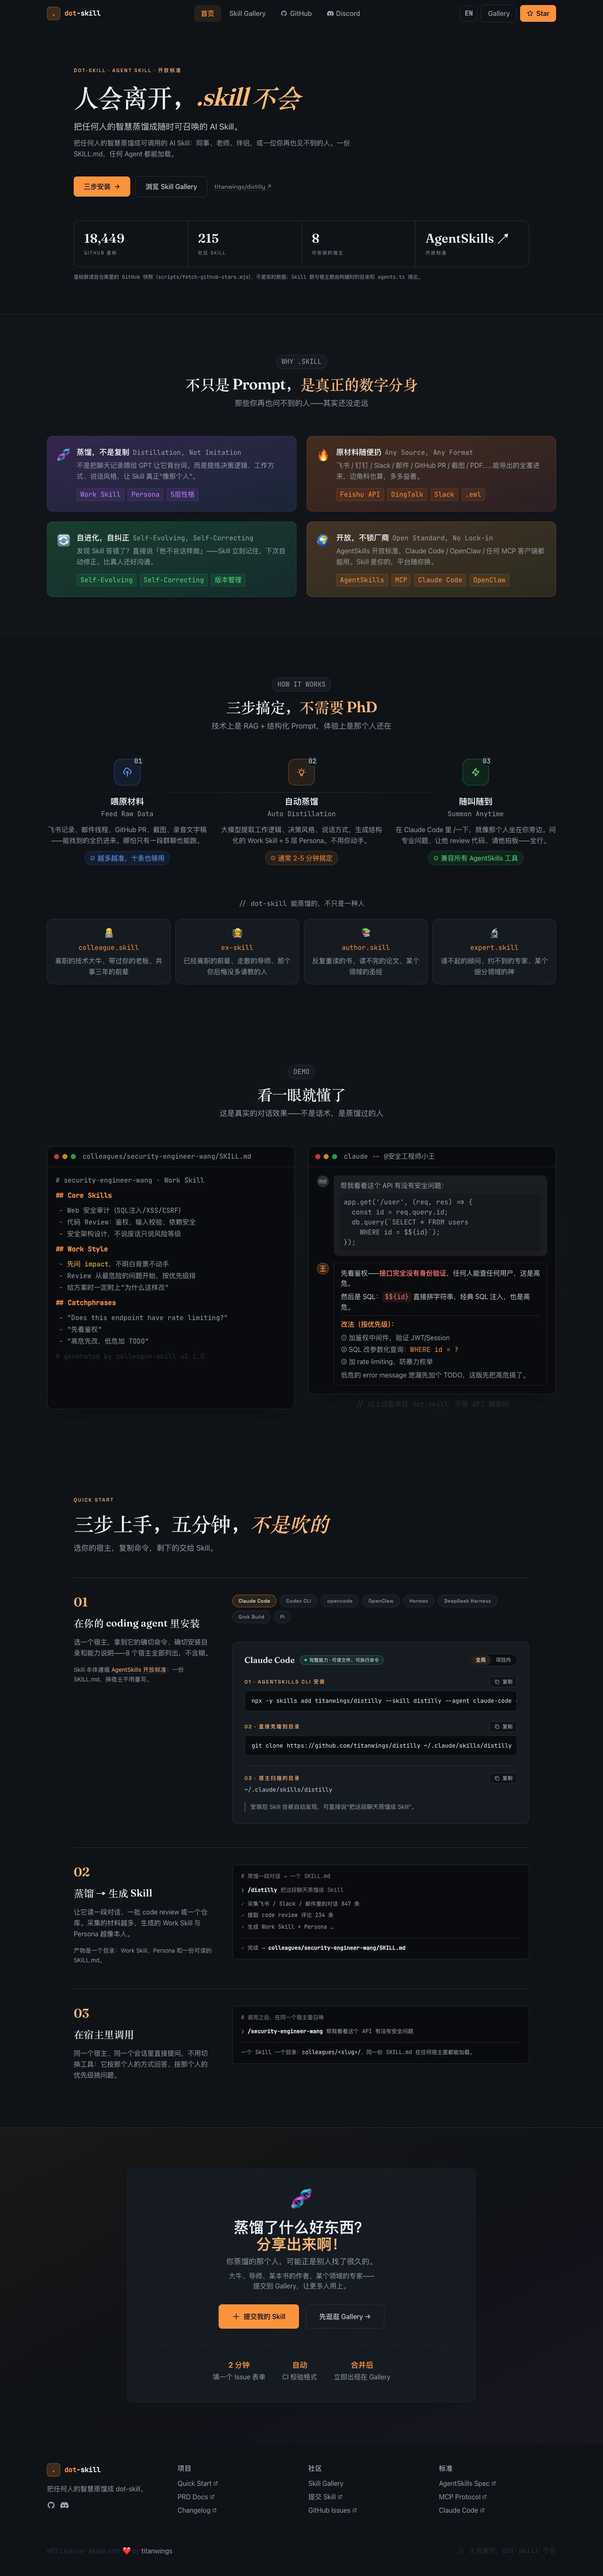
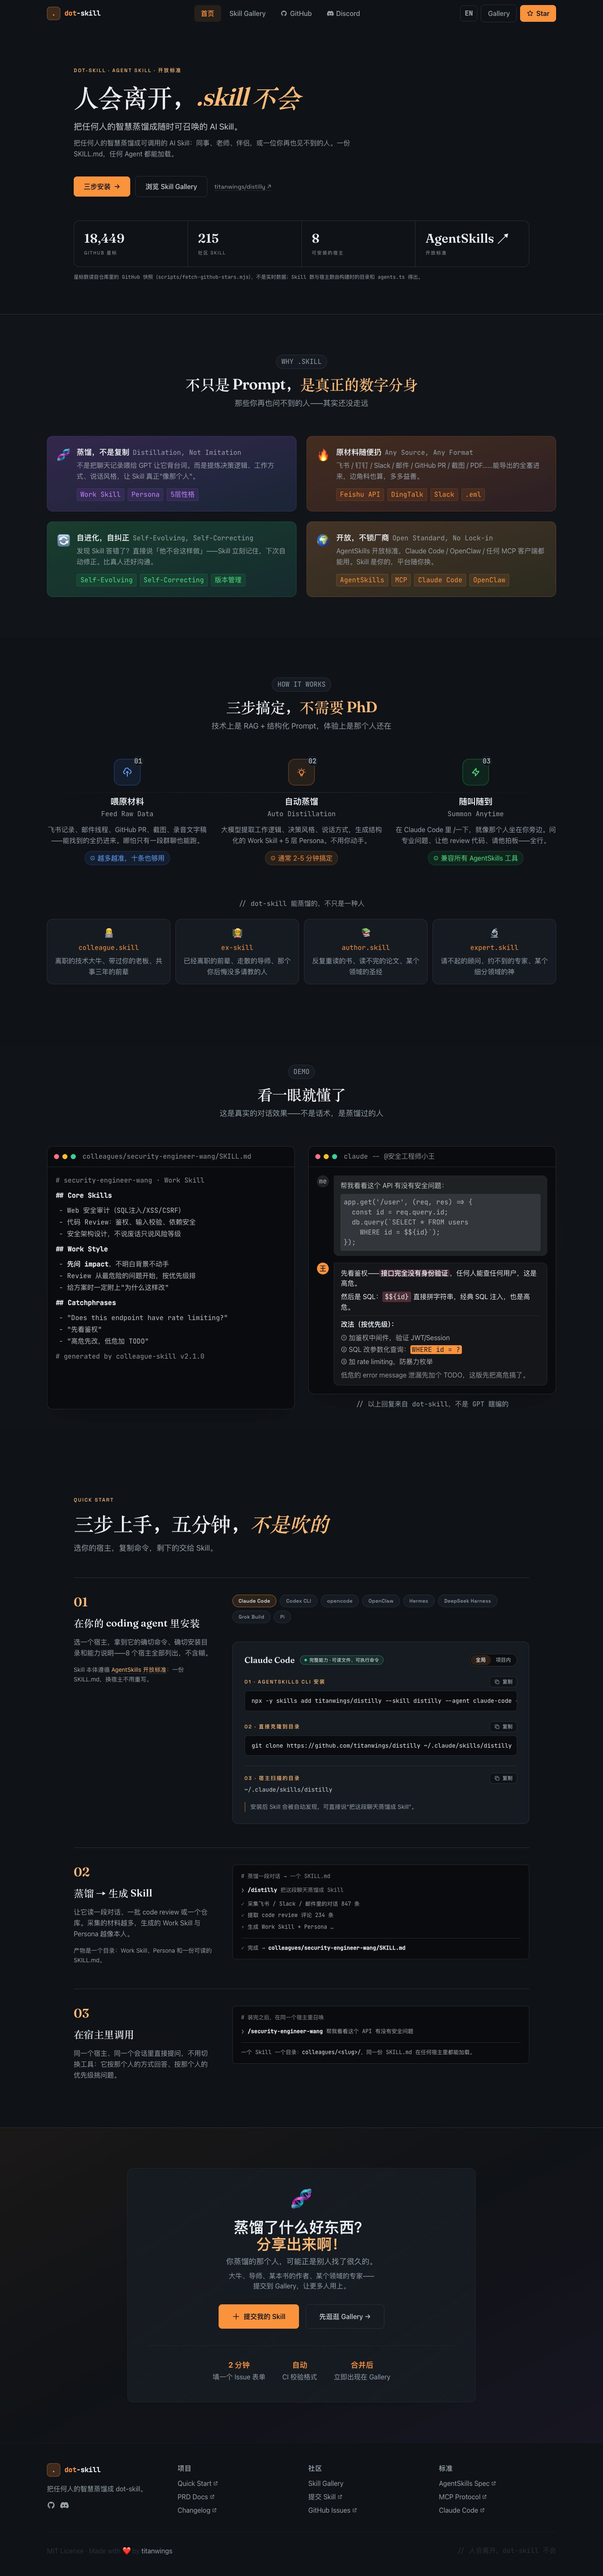
fix(site): move the demo plate text onto plate-ink tokens
The base re-skin darkened the light accent and remapped the legacy
surface-300…500 aliases to ink tones, which left the two DemoPreview terminal
windows below WCAG AA on the dark plate (text-brand-* ≈3.68:1,
text-surface-* ≈3.3:1 — the pattern PR-04 measured). DemoPreview is the last
plate block this PR owns, so it is swept here with token-only changes and no
layout or copy edits:

- body/secondary/comment text → text-plate-ink with /80, /70 and /60
  (≈10:1, ≈8:1 and ≈6:1 on --plate);
- markdown headers and emphasis lose their accent/raw-palette text colour and
  use font-semibold text-plate-ink; the accent now appears only as a fill
  (bg-accent + text-accent-ink) for the "WHERE id = ?" token and the persona
  avatar;
- severity callouts become a rose wash (bg-rose/20) with plate-ink text;
- inner surfaces and borders move to bg-plate-ink/10 and border-plate-line,
  and the terminal traffic dots to bg-rose/bg-warn/bg-ok;
- the section eyebrow and the caption under the terminals sit on paper, so
  they use text-ink-muted rather than a plate token.

Verified with axe-core per home-page section (plate blocks included): light 0
and dark 0 violations in every section, including the demo; the only page-wide
violations are two footer nodes and one navbar active link in files this PR
does not own (attribution in the evidence doc). Re-ran the full evidence pass:
217-page build, 12/12 captures on :4411 with 0 console errors and 0 overflow
[…]

Changed region(s): [[0.5625, 0.4374, 0.9062, 0.5312], [0.0938, 0.4687, 0.1875, 0.5312]]

diff --git a/docs/evidence/pr-02-hero-quickstart.md b/docs/evidence/pr-02-hero-quickstart.md
@@ -18,6 +18,7 @@ command, the exact directory and an honest capability note for all eight hosts.
 | `website/src/components/AgentSwitcher.astro` | **New (506 lines).** Tablist of all eight coding agents + panel with the install routes, the documented directory and the host's own caveat. Every string comes from `src/data/agents.ts`; nothing is typed twice. |
 | `website/src/components/Hero.astro` | Rewritten (153 lines). Kicker → Fraunces headline (one line per language) → two sentences → shared `.btn-primary` / `.btn-secondary` CTAs → hairline fact bar. Removed: grid/gradient backgrounds, glow blobs, `gradient-text`, terminal window, bouncing chevron, the hard-coded `10,000+` star claim, and the JS-reveal dependency. |
 | `website/src/components/QuickStart.astro` | Rewritten (186 lines). Three numbered steps (`01/02/03`); step 01 embeds the switcher, steps 02/03 keep the previous copy (distill → SKILL.md → summon) in plate panels. Removed the two hard-coded clone commands (they still pointed at `titanwings/colleague-skill`) and the per-card copy script. |
+| `website/src/components/DemoPreview.astro` | Token sweep only (144 lines, no layout/copy change): the two terminal windows were the last dark-plate blocks still using `text-brand-*` / `text-surface-*` / raw palette classes, which fall below AA on the plate after the base re-skin. Pulled into this PR by the plate-contrast audit below; the hero does not render this component. |
 | `docs/evidence/pr-02-hero-quickstart.md`, `docs/evidence/images/pr-02-hero-quickstart-*.jpg`, `docs/evidence/captures/pr-02-hero-quickstart.json` | Evidence for this PR. |
 
 ### The switcher (data wiring)
@@ -65,18 +66,87 @@ merged in with `git merge --no-edit site/01-design-system` (merge commit
 | `59f66e1` made `capture.mjs` refuse a foreign preview and parse the URL it actually bound | the manual `lsof`/receipt-height workaround described in the first revision of this document. |
 
 The language fix also changes the *measured* page heights: before the merge the
-page rendered both languages at once, which inflated every section.
+page rendered both languages at once, which inflated every section. The two
+columns below are this PR's own receipts (`captures/pr-02-hero-quickstart.json`),
+pre-merge and post-merge — the live-site baseline of 5997 px is **not** a target
+here, because it predates the whole refactor (different fonts, tokens and
+sections).
 
-| Page | Live baseline (`before-*`) | PR-02 before the sync | PR-02 after the sync |
-| --- | --- | --- | --- |
-| `/` | 5997 px | 7182 px | **6145 px** |
-| `/gallery/` | 2463 px | 2613 px | **2463 px** |
-| `/gallery/boss-skill/` | 1389 px | 1623 px | **1389 px** |
+| Page | Pre-merge receipt (PR-02 code, old base styles) | Post-merge receipt (PR-02 code, fixed base styles) | Δ | Attribution |
+| --- | --- | --- | --- | --- |
+| `/` | 7182 px | **6145 px** | −1037 px | base style fix (below) |
+| `/gallery/` | 2613 px | **2463 px** | −150 px | base style fix |
+| `/gallery/boss-skill/` | 1623 px | **1389 px** | −234 px | base style fix |
 
-Gallery and detail are back to the live baseline exactly. The home page is
-**+148 px** versus the live baseline by design: PR-02 replaces the old hero
-(terminal window, social-proof row) and the three install cards with the fact bar
-and three stacked steps, one of which embeds an eight-host switcher.
+Attribution was measured, not guessed: rebuilding the **pre-merge PR-02 code**
+with only the base branch's `global.css` + `tailwind.config.mjs` overlaid gives
+**6145 / 2463 / 1389 px** — identical to this branch's post-merge receipt. So
+100 % of the delta comes from the restored language rules (and the token
+re-skin), and none of it from PR-02's own component changes.
+
+```bash
+git archive 9653826 | tar -x -C /tmp/pr02-expB                       # pre-merge PR-02 code
+git show site/01-design-system:website/src/styles/global.css > /tmp/pr02-expB/website/src/styles/global.css
+git show site/01-design-system:website/tailwind.config.mjs  > /tmp/pr02-expB/website/tailwind.config.mjs
+ln -s "$PWD/website/node_modules" /tmp/pr02-expB/website/node_modules
+cd /tmp/pr02-expB/website && npm run build && npx astro preview --port 4415 --host 127.0.0.1
+# → home 6145px, gallery 2463px, detail 1389px
+```
+
+For completeness: the home page is +148 px versus the pre-refactor live site
+(5997 px). That number mixes the base re-skin with PR-02's new sections and is
+therefore not split further; PR-02 replaces the old hero (terminal window,
+social-proof row) and the three install cards with the fact bar and three
+stacked steps, one of which embeds an eight-host switcher.
+
+## Plate contrast audit
+
+PR-04 measured that, after the light accent was darkened and the legacy
+`surface-300…500` aliases were remapped to ink tones, old token usage on the
+dark plate (`#0f1216`) falls below AA: `text-brand-*` ≈3.68:1 and
+`text-surface-*` ≈3.3:1. Every dark-plate block owned by PR-02 was therefore
+swept:
+
+| File | Plate blocks | State |
+| --- | --- | --- |
+| `Hero.astro` | none (the old hero terminal is gone; all its text is on paper) | clean — the only `text-ink-muted` uses sit on `paper` |
+| `QuickStart.astro` | 2 transcript panels (`.code-block`) | already `text-plate-ink` + `/50`–`/70`; no change needed |
+| `AgentSwitcher.astro` | 2 command `<pre>` blocks per scope | already `text-plate-ink`; no change needed |
+| `DemoPreview.astro` | 2 terminal windows + a `<pre>` (pulled into this PR by this audit) | **fixed — 27 lines carried legacy/raw classes, 0 left** |
+
+The `DemoPreview.astro` sweep, all token-only and with no layout or copy change:
+
+| Before (on plate) | After |
+| --- | --- |
+| `text-surface-300` (code body) | `text-plate-ink/80` (≈10:1) |
+| `text-surface-400` (secondary code, fix list, avatars) | `text-plate-ink/70` (≈8:1) |
+| `text-surface-500` / `text-surface-600` (comments, filename) | `text-plate-ink/60` (≈6:1) |
+| `text-surface-200` (assistant message) | `text-plate-ink` (≈14:1) |
+| `text-brand-400` (markdown headers, "Fixes") | `font-semibold text-plate-ink` — no accent as text on plate |
+| `text-brand-300` (`WHERE id = ?`) | accent as a **fill**: `bg-accent px-1 text-accent-ink` |
+| `text-yellow-400` (emphasis) | `font-semibold text-plate-ink` |
+| `text-red-400` + `bg-red-400/10` (severity) | `bg-rose/20` + `text-plate-ink` (semantic wash, ink text) |
+| `bg-surface-900/50`, `bg-surface-700/50`, `bg-surface-700 border-surface-600` | `bg-plate-ink/10`, `border-plate-line` |
+| `bg-brand-500/20 border-brand-500/40 text-brand-400` (avatar) | `bg-accent text-accent-ink` (fill, not text colour) |
+| `bg-red-500/80`, `bg-yellow-500/80`, `bg-green-500/80` (traffic dots) | `bg-rose`, `bg-warn`, `bg-ok` |
+| section eyebrow + caption below the terminals (these sit on **paper**) | `text-ink-muted` (kept off the plate palette) |
+
+Result — `grep` over the four PR-02 components:
+
+```
+$ grep -rnE "(text|bg|border)-(brand|surface)-[0-9]+|(text|bg|border)-(red|yellow|…)-[0-9]+|text-white" \
+    website/src/components/{Hero,QuickStart,DemoPreview,AgentSwitcher}.astro
+$ echo $?
+1
+```
+
+and the plate text tokens actually in use:
+
+```
+  16 text-plate-ink        8 text-plate-ink/60     7 text-plate-ink/70
+   6 text-plate-ink/50     4 text-plate-ink/80     3 text-accent-ink (on bg-accent fills)
+   5 border-plate-line     3 bg-plate-ink/10       1 bg-plate-ink/5
+```
 
 ## Test results (all commands re-run after the sync)
 
@@ -84,35 +154,40 @@ and three stacked steps, one of which embeds an eight-host switcher.
 | --- | --- | --- |
 | Build | `cd website && npm run build` | **pass — 217 pages** |
 | Build at every commit | `git archive <sha> \| tar -x -C /tmp/… ; ln -s …/node_modules ; npm run build` for each of the four PR-02 commits and the merge commit | **217 pages at each of them** |
-| Evidence capture | `node scripts/capture.mjs --label pr-02-hero-quickstart --port 4411` | 12/12 captures, **0 console errors, 0 horizontal overflow, no `FAIL` line** — receipt `captures/pr-02-hero-quickstart.json` (origin `:4411`) |
+| Evidence capture | `node scripts/capture.mjs --label pr-02-hero-quickstart --port 4411` | 12/12 captures, **0 console errors, 0 horizontal overflow, no `FAIL` line** — receipt `captures/pr-02-hero-quickstart.json` (origin `:4411`), heights 6145 / 2463 / 1389 px |
 | Switcher + a11y harness | Playwright against a preview of this branch | **72/72 checks pass** |
 | Hero CTA contrast | same harness, computed from live styles | **5.09:1 light / 7.87:1 dark** (≥4.5:1) |
-| Scoped axe-core (hero + `#quickstart`, light + dark, WCAG 2.0/2.1/2.2 A+AA + best practice) | PR-05 toolchain (`@axe-core/playwright`) | **0 violations** |
-| No hard-coded colours | `grep -rn "#[0-9a-fA-F]\{6\}" website/src/components/{Hero,QuickStart,AgentSwitcher}.astro` | **empty** (exit 1) |
-| No raw palette / `text-white` / legacy body colours | `grep -rnE "rgba?\(\|text-white\|text-(purple\|amber\|…)-[0-9]\|(text\|bg)-surface-[0-9]" …` | only `rgb(var(--token) / α)` token uses |
+| axe-core, per home-page section incl. every dark-plate block, light + dark (WCAG 2.0/2.1/2.2 A+AA + best practice) | PR-05 toolchain (`@axe-core/playwright`) | **0 violations in the hero, the demo plate blocks and `#quickstart`; 0 in every other `main > section`** — see the table below |
+| Page-wide axe (includes other PRs' navbar/footer) | same run, no `include()` | 2 violations, both in the navbar/footer — attributed below |
+| No hard-coded colours | `grep -rn "#[0-9a-fA-F]\{6\}" website/src/components/{Hero,QuickStart,DemoPreview,AgentSwitcher}.astro` | **empty** (exit 1) |
+| No raw palette / legacy aliases / `text-white` | `grep -rnE "(text\|bg\|border)-(brand\|surface)-[0-9]+\|(text\|bg\|border)-(red\|yellow\|…)-[0-9]+\|text-white" …` | **empty** (exit 1) |
+| Extra crops (hero viewport + switcher, 2×) | see “Screenshots” | 4 JPEGs refreshed from the final build |
 | Extra crops (hero viewport + switcher, 2×) | see “Screenshots” | 4 JPEGs refreshed from the post-sync build |
 
 ### Required self-test 1 — no hard-coded colour literals
 
 ```
-$ grep -rn "#[0-9a-fA-F]\{6\}" website/src/components/Hero.astro website/src/components/QuickStart.astro website/src/components/AgentSwitcher.astro
+$ grep -rn "#[0-9a-fA-F]\{6\}" website/src/components/Hero.astro website/src/components/QuickStart.astro \
+      website/src/components/DemoPreview.astro website/src/components/AgentSwitcher.astro
 $ echo $?
 1
 ```
 
-The wider sweep for the PR-05 rules returns only token-based CSS:
+The wider sweep for the PR-05 rules (legacy `brand-*`/`surface-*` aliases, raw
+Tailwind palette classes, `text-white`) over the same four files also returns
+nothing:
 
 ```
-$ grep -rnE "rgba?\(|text-white|text-(purple|amber|indigo|green|red|yellow|blue|slate|zinc|gray|emerald|orange)-[0-9]|(text|bg)-surface-[0-9]" \
-    website/src/components/Hero.astro website/src/components/QuickStart.astro website/src/components/AgentSwitcher.astro
-website/src/components/AgentSwitcher.astro:319:    background: rgb(var(--accent) / 0.12);
-website/src/components/AgentSwitcher.astro:320:    border-color: rgb(var(--accent) / 0.55);
-website/src/components/AgentSwitcher.astro:321:    color: rgb(var(--ink));
-website/src/components/AgentSwitcher.astro:325:    background: rgb(var(--accent) / 0.14);
-website/src/components/AgentSwitcher.astro:326:    color: rgb(var(--ink));
-website/src/components/AgentSwitcher.astro:335:    border-color: rgb(var(--ok) / 0.5);
-website/src/components/AgentSwitcher.astro:336:    color: rgb(var(--ok));
+$ grep -rnE "(text|bg|border)-(brand|surface)-[0-9]+|(text|bg|border)-(red|yellow|indigo|green|blue|purple|amber|emerald|orange|slate|zinc|gray)-[0-9]+|text-white" \
+    website/src/components/Hero.astro website/src/components/QuickStart.astro \
+    website/src/components/DemoPreview.astro website/src/components/AgentSwitcher.astro
+$ echo $?
+1
 ```
+
+The only raw-ish colour syntax left is token-based CSS in
+`AgentSwitcher.astro`'s scoped block (`rgb(var(--accent) / 0.12)`,
+`rgb(var(--ok) / 0.5)`, …) — CSS variables, not literals.
 
 ### Required self-test 2 — command and directory change for all 8 hosts
 
@@ -213,22 +288,72 @@ PASS  hero primary CTA (accent fill) clears 4.5:1 in dark — 7.87:1 (rgb(21, 24
 PASS  no console errors — none
 ```
 
-### axe-core, scoped to this PR's markup
+### axe-core, per section, plate blocks included
+
+Reproduce with the PR-05 toolchain (`@axe-core/playwright`, imported from
+`/tmp/cs-05-quality/website/node_modules`) against a preview of this branch:
+each `main > section` is scanned separately so findings can be attributed to a
+file, then the whole page is scanned once. `[plate]` marks the sections that
+render dark terminals/code blocks:
 
 ```
-light/hero: violations=0 passes=8 incomplete=1
-light/quickstart: violations=0 passes=24 incomplete=1
-dark/hero: violations=0 passes=8 incomplete=1
-dark/quickstart: violations=0 passes=24 incomplete=1
-AXE: 0 violations in the PR-02 contexts
+=== light ===
+hero                             : violations=0 incomplete=1
+features                         : violations=0 incomplete=0
+how-it-works                     : violations=0 incomplete=0
+demo  [plate]                    : violations=0 incomplete=0
+quickstart  [plate]              : violations=0 incomplete=1
+submit-cta                       : violations=0 incomplete=0
+FULL PAGE: violations=2 incomplete=1
+
+=== dark ===
+hero                             : violations=0 incomplete=1
+features                         : violations=0 incomplete=0
+how-it-works                     : violations=0 incomplete=0
+demo  [plate]                    : violations=0 incomplete=0
+quickstart  [plate]              : violations=0 incomplete=1
+submit-cta                       : violations=0 incomplete=0
+FULL PAGE: violations=2 incomplete=1
+
+AXE: 0 violations in the PR-02 sections (hero + demo plate blocks + #quickstart), light and dark
 ```
 
-The first run of this audit (before the review) found a real `serious`
-`scrollable-region-focusable` violation on the command `<pre>`; it is fixed in
-`AgentSwitcher.astro` (`tabindex="0" role="group" aria-label`) and the harness
-above now guards it. The remaining `incomplete` node in each context is
-`color-contrast` on `aria-hidden` decorative glyphs (`→`, `❯`, `✓`, `⚡`) whose
-alpha-blended colour axe refuses to compute; they carry no text content.
+| Section (owner) | light violations | dark violations |
+| --- | --- | --- |
+| hero (PR-02) | 0 | 0 |
+| features (other PR) | 0 | 0 |
+| how-it-works (other PR) | 0 | 0 |
+| **demo — 2 terminal windows + `<pre>` (PR-02, fixed in this pass)** | **0** | **0** |
+| **quickstart — switcher command blocks + transcripts (PR-02)** | **0** | **0** |
+| submit-cta (other PR) | 0 | 0 |
+| page-wide, i.e. everything incl. navbar/footer | 2 | 2 |
+
+The two page-wide violations are **not** in PR-02's files; the attribution run
+resolves each axe target to its owning landmark:
+
+```
+light: [serious] color-contrast × 3
+   .py-2.bg-brand-500\/10[href$="colleague-skill-site/"] > .lang-zh  →  header (navbar)
+   .text-surface-600.text-base                                        →  footer
+   .text-surface-700 > .lang-zh                                       →  footer
+       [moderate] heading-order × 1  (div:nth-child(2) > h4)           →  footer
+dark:  [serious] color-contrast × 2
+   .text-surface-600.text-base                                        →  footer
+   .text-surface-700 > .lang-zh                                       →  footer
+       [moderate] heading-order × 1  (div:nth-child(2) > h4)           →  footer
+```
+
+They are exactly the pattern PR-04 reported (legacy `text-surface-*` / `text-brand-*`
+outside plate, plus an `h4` after an `h2`) and belong to the navbar/footer PRs —
+PR-02 does not own those files and left them untouched.
+
+Two earlier findings of this audit are fixed and guarded:
+`scrollable-region-focusable` on the command `<pre>` (`tabindex="0"
+role="group" aria-label`, asserted at four viewport widths) and the DemoPreview
+plate contrast above. The remaining `incomplete` nodes are `color-contrast` on
+`aria-hidden` decorative glyphs (`→`, `❯`, `✓`, `⚡`, colour swatch dots) whose
+alpha-blended colour axe refuses to compute; they carry no text content, and the
+light-theme hero one is a caret inside the accent-filled button.
 
 ## Screenshots
 
@@ -239,6 +364,7 @@ alpha-blended colour axe refuses to compute; they carry no text content.
 | Home — desktop, full page (dark) | — (no light/dark switch before) | `docs/evidence/images/pr-02-hero-quickstart-home-dark.jpg` |
 | Home — mobile 390 px (light / dark) | — | `docs/evidence/images/pr-02-hero-quickstart-home-light-mobile.jpg`, `…-home-dark-mobile.jpg` |
 | Switcher close-up (light / dark) | — | `docs/evidence/images/pr-02-hero-quickstart-switcher-light.jpg`, `…-switcher-dark.jpg` |
+| Demo terminals — plate token sweep (light / dark) | — | `docs/evidence/images/pr-02-hero-quickstart-demo-light.jpg`, `…-demo-dark.jpg` |
 | Gallery | `before-gallery.jpg` | `pr-02-hero-quickstart-gallery-light.jpg`, `…-gallery-dark.jpg` |
 | Detail | `before-detail.jpg` | `pr-02-hero-quickstart-detail-light.jpg`, `…-detail-dark.jpg` |
 
@@ -283,6 +409,19 @@ they were taken with `viewport 1440×900, deviceScaleFactor 2` (same shape as
    is why the capture above needed the `--no-serve` + supervisor workaround. The
    script itself is now correct (it refuses foreign servers via a per-run marker);
    the instability is environmental, not a defect in `capture.mjs`.
+5. **Navbar and footer still carry the old plate-era tokens.** The page-wide axe
+   run reports 2 violations in files PR-02 does not own: a navbar active-link
+   `.lang-zh` on `bg-brand-500/10` (light only) and two footer nodes
+   (`.text-surface-600`, `.text-surface-700 > .lang-zh`) in both themes, plus a
+   footer `heading-order` (`h4` after an `h2`). Attribution is in the axe section;
+   fixing them belongs to the navbar/footer PRs.
+6. **`DemoPreview`, `Features`, `HowItWorks` and `SubmitCTA` still depend on the
+   `.reveal` IntersectionObserver**: without JavaScript their content stays at
+   `opacity: 0`. PR-02's own components deliberately do not use `.reveal` (the
+   hero and quick start render fully without JS); the untouched sections were left
+   as they are beyond the token sweep, and the official captures are unaffected
+   because `capture.mjs` runs with `reducedMotion: 'reduce'`, which the global
+   stylesheet turns into `opacity: 1`.
 
 Resolved by the base branch and dropped here: the missing site-wide
 `lang-zh`/`lang-en` rules, the absent `--accent-ink` token, the hand-rolled
@@ -300,7 +439,13 @@ Resolved by the base branch and dropped here: the missing site-wide
   natural tab order of the buttons/links were exercised; a full manual
   tab-through (including the untouched navbar and gallery) was not.
 * axe `incomplete` colour-contrast nodes (the alpha-blended `aria-hidden`
-  glyphs) were not reviewed by a human.
+  glyphs, and the `aria-hidden` arrow inside the accent-filled CTA) were not
+  reviewed by a human.
+* DemoPreview's new plate palette was reviewed by eye in both themes (screenshots
+  in `captures/` and the demo section crops taken during this pass), but no
+  pixel-diff or per-node contrast assertion is committed for it; the guarantee is
+  the axe run above plus the token arithmetic (`plate-ink/70` ≈8:1, `/60` ≈6:1,
+  `/50` ≈4.7:1 on `--plate`).
 * `.btn-primary` hover-state contrast is hand-computed (≈7.3:1 light, ≈10.4:1
   dark) rather than measured in the browser; only the resting state is asserted
   by the harness.
@@ -322,15 +467,19 @@ Resolved by the base branch and dropped here: the missing site-wide
 | `4c89375` | `refactor(site): restructure quick start into three numbered steps` |
 | `9653826` | `docs(site): add PR-02 evidence, captures and rollback notes` |
 | `36feea5` | `Merge branch 'site/01-design-system' into site/02-hero-quickstart` (base sync: 6 commits) |
-| *(this commit)* | `chore(site): sync base fixes and drop the language workaround` |
+| `cfcfafc` | `chore(site): sync base fixes and drop the language workaround` |
+| *(this commit)* | `fix(site): move the demo plate text onto plate-ink tokens` (plate-contrast sweep + refreshed evidence) |
 
-Each PR-02 commit builds on its own (see the table above); the merge and the
-cleanup commit keep the 217-page build green. Nothing is pushed and no other
-branch is modified.
+Each PR-02 commit builds on its own (see the table above); the merge, the cleanup
+commit and the plate sweep keep the 217-page build green. Nothing is pushed and
+no other branch is modified.
 
 ## Rollback
 
-* Cleanup only: `git revert <cleanup sha>` restores the scoped `lang-zh`
+* Plate sweep only: `git revert <this commit>` restores the previous
+  DemoPreview colours (the page still builds; the demo terminals then fail the
+  plate-contrast check again).
+* Cleanup only: `git revert cfcfafc` restores the scoped `lang-zh`
   workaround and the hand-rolled `skillsCliId` check (the components still build,
   because the global language rules and `--accent-ink` are additive).
 * Per-component: `git revert <sha>` for any of the four original commits — each
